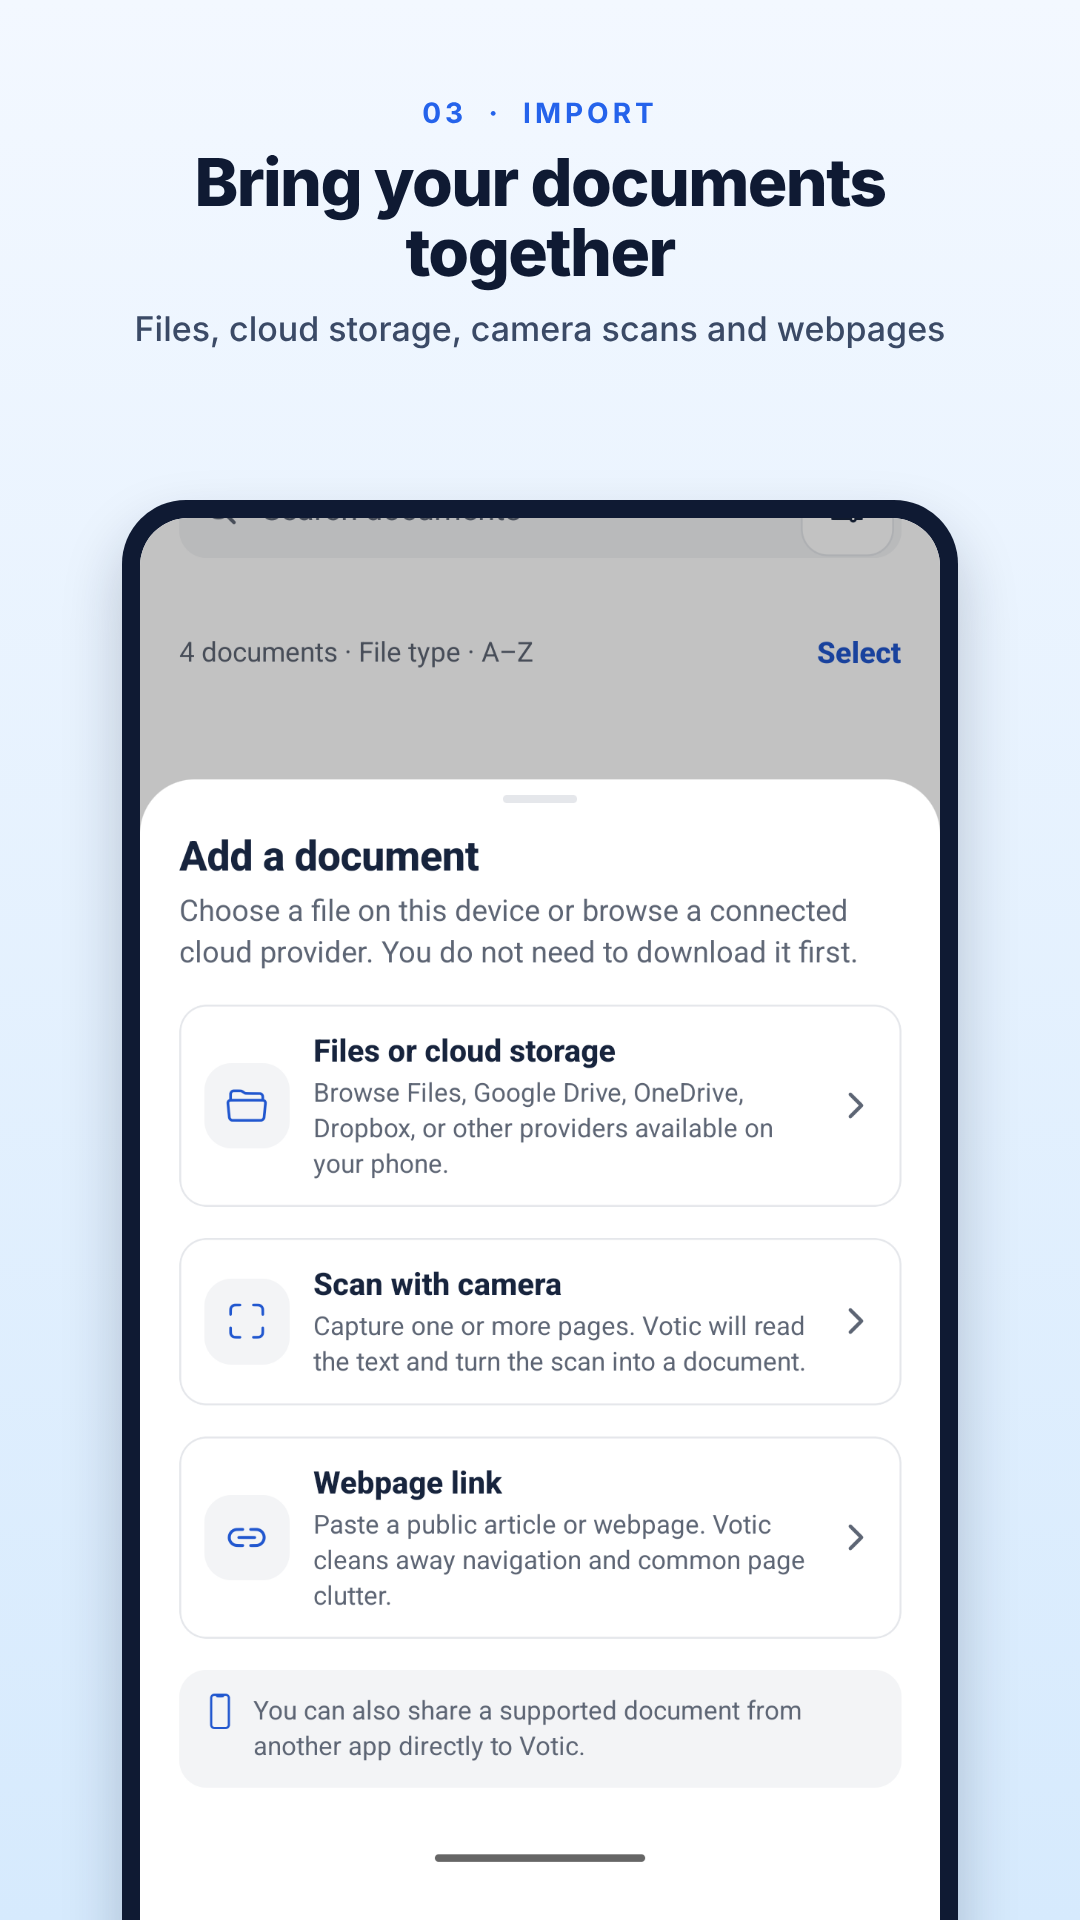
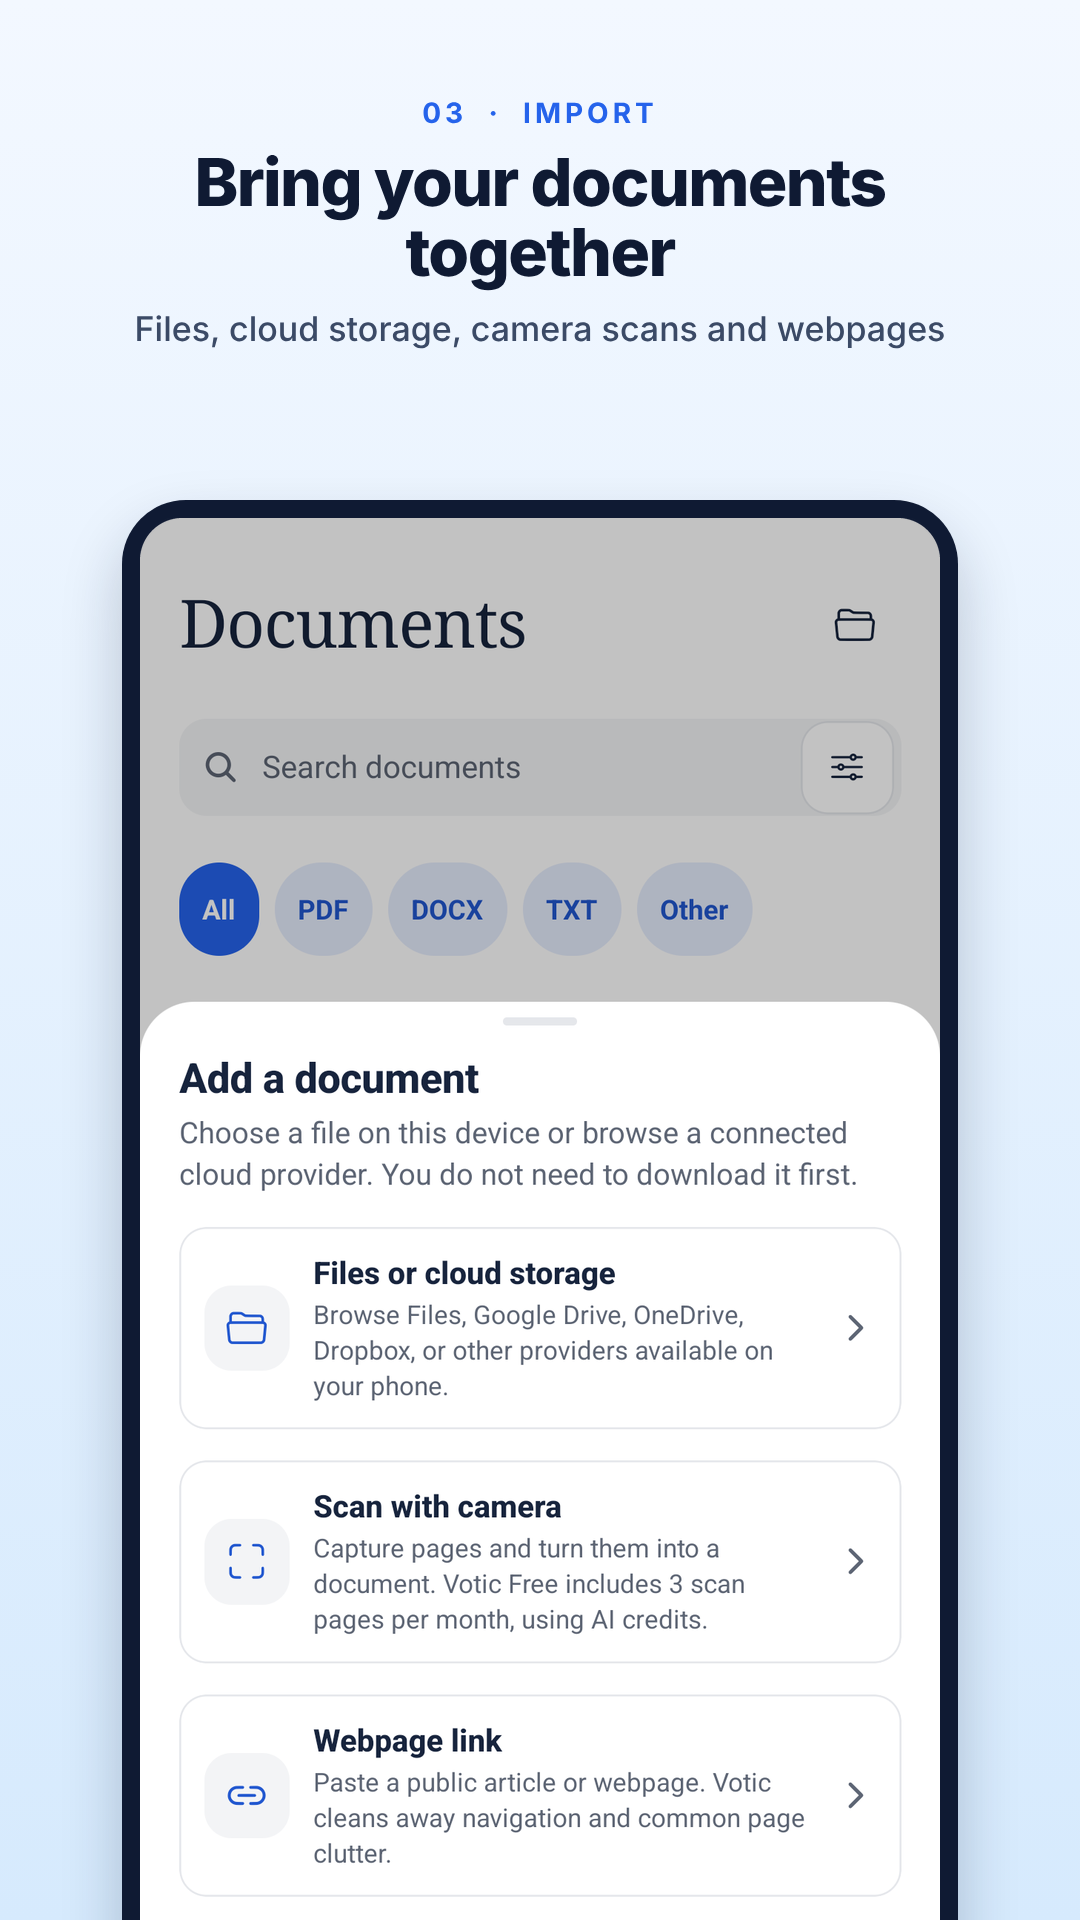
Welcome Create account flight, Home paper slide-in, new Documents store screenshot
- Create account with email plays the same V flight as Sign in and Continue
  with Google, then opens; a second tap during a flight is ignored.
- Home's Continue card shows a single sheet of paper that slides in from the
  left each time Home becomes active (120 px, 750 ms ease-out, after the tab
  change); not on rerenders or progress updates; at rest with Reduce Motion.
- Play Store screenshot 3 (Bring your documents together) recaptured from the
  current app: the updated Documents screen with the Add a document sheet open.
  Caption, background and phone frame are unchanged.

diff --git a/apps/mobile/tests/components/continuePapers.component.test.tsx b/apps/mobile/tests/components/continuePapers.component.test.tsx
@@ -1,0 +1,138 @@
+import { beforeEach, expect, it, jest } from "@jest/globals";
+import { act, screen } from "@testing-library/react-native";
+import { Context, useEffect, useState } from "react";
+import { AccessibilityInfo, Animated, StyleSheet } from "react-native";
+import { ContinuePreview } from "../../src/home/ContinuePreview";
+import { useAccessibilityPreferences } from "../../src/accessibility/AccessibilityProvider";
+import { MOTION } from "../../src/motion/motionSpec";
+import { VoticDocument } from "../../src/documents/types";
+import { render_with_providers, test_document } from "../renderWithProviders";
+
+// Home's focus, controllable: true while Home is the screen in front.
+jest.mock("expo-router", () => {
+  const original = jest.requireActual<object>("../mocks/expoRouter");
+  const React = jest.requireActual<typeof import("react")>("react");
+  const TestFocusContext = React.createContext(true);
+  return {
+    ...original,
+    TestFocusContext,
+    useFocusEffect(effect: () => void | (() => void)) {
+      const focused = React.useContext(TestFocusContext);
+      React.useEffect(() => (focused ? effect() : undefined), [effect, focused]);
+    },
+  };
+});
+const { TestFocusContext } = jest.requireMock<{ TestFocusContext: Context<boolean> }>("expo-router");
+
+let control: {
+  focus: (value: boolean) => void;
+  document: (value: VoticDocument) => void;
+  motion: (value: boolean) => void;
+};
+const story = test_document("doc-1", "The Gift of the Magi", {
+  plainText: "One dollar and eighty-seven cents. That was all. And sixty cents of it was in pennies.",
+  sentenceIndex: 0,
+  wordIndex: 0,
+});
+function Home() {
+  const [focused, setFocused] = useState(true);
+  const [document, setDocument] = useState(story);
+  const access = useAccessibilityPreferences();
+  useEffect(() => {
+    control = { focus: setFocused, document: setDocument, motion: access.setReduceMotion };
+  }, [access.setReduceMotion]);
+  return (
+    <TestFocusContext.Provider value={focused}>
+      <ContinuePreview document={document} />
+    </TestFocusContext.Provider>
+  );
+}
+
+const runs: { stop: ReturnType<typeof jest.fn> }[] = [];
+beforeEach(() => {
+  runs.length = 0;
+  const original = Animated.timing;
+  jest.spyOn(Animated, "timing").mockImplementation((value, config) => {
+    const animation = original(value, config);
+    if (config.duration !== MOTION.papers.duration) return animation;
+    const stop = jest.fn(() => animation.stop());
+    runs.push({ stop });
+    return { ...animation, stop };
+  });
+  jest.spyOn(AccessibilityInfo, "isReduceMotionEnabled").mockResolvedValue(false);
+});
+
+/** The paper's current horizontal offset from its usual place, and its opacity. */
+function paper() {
+  const style = StyleSheet.flatten(screen.getByTestId("home-preview-paper").props.style);
+  const read = (value: number | { __getValue: () => number } | undefined) =>
+    typeof value === "number" ? value : (value?.__getValue() ?? 0);
+  const shift = (style.transform as { translateX?: number | { __getValue: () => number } }[]).find(
+    (item) => item.translateX !== undefined,
+  )?.translateX;
+  return { x: read(shift), opacity: read(style.opacity as number | { __getValue: () => number }) };
+}
+
+it("slides one sheet of paper in from the left when Home appears, keeping the preview's text", async () => {
+  await render_with_providers(<Home />);
+  expect(runs).toHaveLength(1);
+  expect(screen.getByText(/One dollar and eighty-seven cents/)).toBeTruthy();
+  // Only the front, text-bearing sheet: no paper behind it.
+  expect(screen.queryByTestId("home-preview-back-sheet")).toBeNull();
+  // It starts to the left, out of view (not at rest), and the slide is long and eased.
+  expect(paper()).toEqual({ x: -MOTION.papers.travel, opacity: 0 });
+  // A long, unmistakable glide across the card rather than a quick flip.
+  expect(MOTION.papers.travel).toBeGreaterThanOrEqual(100);
+  expect(MOTION.papers.duration).toBeGreaterThanOrEqual(700);
+  expect(MOTION.papers.duration).toBeLessThanOrEqual(900);
+});
+
+it("replays on every return to Home, but not on rerenders or progress updates", async () => {
+  await render_with_providers(<Home />);
+  expect(runs).toHaveLength(1);
+  // Reading progress moves on and the screen rerenders: no replay.
+  await act(async () => control.document({ ...story, sentenceIndex: 1, wordIndex: 3 }));
+  await act(async () => control.document({ ...story, sentenceIndex: 2, wordIndex: 0 }));
+  expect(runs).toHaveLength(1);
+  // Away to another tab or screen, then back: it plays again, each time.
+  await act(async () => control.focus(false));
+  expect(runs[0].stop).toHaveBeenCalled();
+  await act(async () => control.focus(true));
+  expect(runs).toHaveLength(2);
+  await act(async () => control.focus(false));
+  await act(async () => control.focus(true));
+  expect(runs).toHaveLength(3);
+});
+
+it("stops the slide whenever Home is left, even with quick back-and-forth", async () => {
+  await render_with_providers(<Home />);
+  for (let i = 0; i < 4; i++) {
+    await act(async () => control.focus(false));
+    await act(async () => control.focus(true));
+  }
+  await act(async () => control.focus(false));
+  // Five arrivals, and every one was stopped when Home was left (the test renderer can't report native-driver
+  // positions, so where the paper comes to rest is checked on a device).
+  expect(runs).toHaveLength(5);
+  expect(runs.every((run) => run.stop.mock.calls.length > 0)).toBe(true);
+});
+
+it("shows the paper in place, without sliding, when Reduce Motion is on", async () => {
+  await render_with_providers(<Home />, { reduceMotion: true });
+  expect(runs).toHaveLength(0);
+  expect(paper()).toEqual({ x: 0, opacity: 1 });
+  await act(async () => control.focus(false));
+  await act(async () => control.focus(true));
+  expect(runs).toHaveLength(0);
+});
+
+it("stops at once when Reduce Motion is turned on mid-slide, and stays still after", async () => {
+  await render_with_providers(<Home />);
+  expect(runs).toHaveLength(1);
+  await act(async () => control.motion(true));
+  expect(runs[0].stop).toHaveBeenCalled();
+  // And with it on, coming back to Home doesn't animate.
+  await act(async () => control.focus(false));
+  await act(async () => control.focus(true));
+  expect(runs).toHaveLength(1);
+});

diff --git a/apps/mobile/src/home/ContinuePreview.tsx b/apps/mobile/src/home/ContinuePreview.tsx
@@ -1,6 +1,9 @@
 import { DEFAULT_ACCENT, make_theme } from "../theme/ThemeProvider";
-import { useMemo } from "react";
-import { StyleSheet, Text, View, useWindowDimensions } from "react-native";
+import { useCallback, useMemo, useState } from "react";
+import { Animated, Easing, StyleSheet, Text, View, useWindowDimensions } from "react-native";
+import { useFocusEffect } from "expo-router";
+import { useAccessibilityPreferences } from "../accessibility/AccessibilityProvider";
+import { MOTION } from "../motion/motionSpec";
 import { split_passages } from "../documents/passages";
 import { VoticDocument } from "../documents/types";
 import { darkCards } from "../design/cardPalette";
@@ -10,9 +13,50 @@ import { saved_excerpt } from "./savedExcerpt";
 // Preview paper stays light independently of the surrounding app or reader appearance.
 const paper = make_theme(DEFAULT_ACCENT, "light", true);
 
+/**
+ * The paper slides in from the left each time Home comes into view (from another tab or screen), fading in over the
+ * first part so it never jumps from its place to the start. Rerenders and progress updates don't replay it; leaving
+ * Home stops it with the paper at rest; with Less motion it's simply at rest. 0 = arriving, 1 = in place.
+ */
+function usePaperEntrance() {
+  const { reduceMotion, motionReady } = useAccessibilityPreferences();
+  // Starts out of place, so the first frame never shows the paper at rest before it slides in.
+  const [arrival] = useState(() => new Animated.Value(reduceMotion ? 1 : 0));
+  useFocusEffect(
+    useCallback(() => {
+      if (reduceMotion) {
+        arrival.setValue(1);
+        return;
+      }
+      // Until the motion preference is known, keep waiting out of view; this reruns once it is.
+      if (!motionReady) return;
+      arrival.setValue(0);
+      const animation = Animated.timing(arrival, {
+        toValue: 1,
+        duration: MOTION.papers.duration,
+        delay: MOTION.papers.delay,
+        easing: Easing.out(Easing.cubic),
+        useNativeDriver: true,
+        isInteraction: false,
+      });
+      // Stopped early (leaving Home, Less motion): rest the paper once the stop has reported where it was.
+      animation.start(({ finished }) => {
+        if (!finished) arrival.setValue(1);
+      });
+      return () => {
+        animation.stop();
+        arrival.setValue(1);
+      };
+    }, [arrival, reduceMotion, motionReady]),
+  );
+  return arrival;
+}
+
 /** Text already stored on device, using the same passage boundaries as Reader and speech. */
 export function ContinuePreview({ document }: { document: VoticDocument }) {
   const { width, fontScale } = useWindowDimensions();
+  const arrival = usePaperEntrance();
+  const { travel, fadeUntil } = MOTION.papers;
   const passages = useMemo(() => split_passages(document.plainText), [document.plainText]);
   const excerpt = useMemo(
     () => saved_excerpt(passages, document.sentenceIndex, document.wordIndex),
@@ -22,19 +66,28 @@ export function ContinuePreview({ document }: { document: VoticDocument }) {
     <View testID="home-position-preview" style={[s.preview, { width: width <= 350 ? 104 : 132 }]}>
       <Text style={s.label}>{excerpt ? "AT YOUR SAVED POSITION" : "DOCUMENT PREVIEW"}</Text>
       <View style={s.sheets}>
-        <View
-          accessible={false}
-          pointerEvents="none"
-          style={[s.backSheet, { backgroundColor: paper.surfaceMuted }]}
-        />
-        <View
+        <Animated.View
           testID="home-preview-paper"
-          style={[s.page, { backgroundColor: paper.background, borderColor: paper.border }]}
+          style={[
+            s.page,
+            {
+              backgroundColor: paper.background,
+              borderColor: paper.border,
+              opacity: arrival.interpolate({
+                inputRange: [0, fadeUntil],
+                outputRange: [0, 1],
+                extrapolate: "clamp",
+              }),
+              transform: [
+                { translateX: arrival.interpolate({ inputRange: [0, 1], outputRange: [-travel, 0] }) },
+              ],
+            },
+          ]}
         >
           <Text numberOfLines={fontScale > 1.3 ? 5 : 7} style={[s.excerpt, { color: paper.text }]}>
             {excerpt || "Open this document to pick up where you left off."}
           </Text>
-        </View>
+        </Animated.View>
       </View>
     </View>
   );
@@ -43,15 +96,6 @@ const s = StyleSheet.create({
   preview: { flexShrink: 0, gap: 8 },
   label: { color: darkCards.chapter.detail, fontSize: 11, fontWeight: "700", letterSpacing: 0.6 },
   sheets: { paddingRight: 4, paddingBottom: 5 },
-  backSheet: {
-    position: "absolute",
-    top: 6,
-    right: 0,
-    bottom: 0,
-    left: 5,
-    borderRadius: 3,
-    transform: [{ rotate: "3deg" }],
-  },
   page: {
     minHeight: 184,
     borderWidth: 1,

diff --git a/apps/mobile/tests/components/welcomeMotion.component.test.tsx b/apps/mobile/tests/components/welcomeMotion.component.test.tsx
@@ -10,14 +10,32 @@ import { router } from "../mocks/expoRouter";
 import { render_with_providers } from "../renderWithProviders";
 
 describe("Welcome motion", () => {
-  it("cancels delayed Sign in navigation when Create account is chosen", async () => {
+  it("plays the same V flight for Create account as for Sign in, then opens it once", async () => {
     fakeAuth.reset(null);
+    const moves = watch_moves();
+    await render_with_providers(<Welcome />);
+    await fireEvent.press(screen.getByRole("button", { name: "Create account with email" }));
+    // The V flies (three wings, the stroke, the glow) before Create account opens.
+    expect(moves.away()).toEqual([460, 460, 460, 520, 500]);
+    expect(router.push).not.toHaveBeenCalled();
+    // More taps during the flight change nothing.
+    await fireEvent.press(screen.getByRole("button", { name: "Create account with email" }));
+    await act(async () => jest.advanceTimersByTime(1500));
+    expect(router.push.mock.calls).toEqual([["/create-account"]]);
+    expect(moves.away()).toHaveLength(5);
+  });
+
+  it("sends the person where they tapped first: a second choice during the flight is ignored", async () => {
+    fakeAuth.reset(null);
+    const moves = watch_moves();
     await render_with_providers(<Welcome />);
     await fireEvent.press(screen.getByRole("button", { name: "Sign in" }));
     await fireEvent.press(screen.getByRole("button", { name: "Create account with email" }));
     await act(async () => jest.advanceTimersByTime(1500));
-    expect(router.push.mock.calls).toEqual([["/create-account"]]);
+    expect(router.push.mock.calls).toEqual([["/sign-in"]]);
+    expect(moves.away()).toHaveLength(5);
   });
+
   it("stands still, with a plain headline, until someone taps Sign in", async () => {
     fakeAuth.reset(null);
     await render_with_providers(<Welcome />);

diff --git a/apps/mobile/tests/components/onboarding.component.test.tsx b/apps/mobile/tests/components/onboarding.component.test.tsx
@@ -46,12 +46,15 @@ describe("Welcome", () => {
     await render_with_providers(<Welcome />);
     expect(screen.getByRole("header", { name: "Make room for\nwhat matters." })).toBeTruthy();
     expect(screen.getByText("A place to read, listen, and keep your ideas.")).toBeTruthy();
+    // Each opens its screen after the V flies away.
     await fireEvent.press(screen.getByRole("button", { name: "Create account with email" }));
-    expect(router.push).toHaveBeenCalledWith("/create-account");
-    await fireEvent.press(screen.getByRole("button", { name: "Sign in" }));
-    // The V flies away first, then Sign in opens.
     await act(async () => jest.advanceTimersByTime(1500));
-    expect(router.push).toHaveBeenCalledWith("/sign-in");
+    expect(router.push).toHaveBeenCalledWith("/create-account");
+    screen.unmount();
+    await render_with_providers(<Welcome />);
+    await fireEvent.press(screen.getByRole("button", { name: "Sign in" }));
+    await act(async () => jest.advanceTimersByTime(1500));
+    expect(router.push).toHaveBeenLastCalledWith("/sign-in");
   });
 
   it("links Terms and Privacy only when this build has their addresses", async () => {
@@ -633,6 +636,7 @@ it("stays quiet when the person closes Google's account picker, and email still 
   expect(screen.queryByTestId("google-sign-in-error")).toBeNull();
   expect(screen.queryByRole("alert")).toBeNull();
   await fireEvent.press(screen.getByRole("button", { name: "Create account with email" }));
+  await finish_flight();
   expect(router.push).toHaveBeenLastCalledWith("/create-account");
 });
 

diff --git a/apps/mobile/app/welcome.tsx b/apps/mobile/app/welcome.tsx
@@ -13,8 +13,8 @@ import { useVoticTheme } from "../src/theme/ThemeProvider";
 /**
  * The first screen. Apple and Google create the account or sign in; "Create account with email" creates a new
  * account; the full-width "Sign in" below it is for existing email accounts. The screen stands still until someone
- * taps Sign in or Continue with Google, when the V's wings fly off to the right one by one and its stroke flies up
- * and away; then Sign in opens, or Google's account picker.
+ * taps one of them, when the V's wings fly off to the right one by one and its stroke flies up and away; then Create
+ * account or Sign in opens, or Google's account picker. A tap while the V is flying does nothing.
  */
 export default function Welcome() {
   const { theme } = useVoticTheme();
@@ -54,10 +54,7 @@ export default function Welcome() {
             accessibilityLabel="Create account with email"
             disabled={socialBusy}
             accessibilityState={{ disabled: socialBusy }}
-            onPress={() => {
-              mark.cancel();
-              router.push("/create-account");
-            }}
+            onPress={() => mark.fly(() => router.push("/create-account"))}
             style={({ pressed }) => [s.email, { backgroundColor: theme.accent, opacity: pressed ? 0.88 : 1 }]}
           >
             <Ionicons name="mail-outline" size={20} color={theme.onAccent} />

diff --git a/apps/mobile/src/onboarding/WelcomeMotion.tsx b/apps/mobile/src/onboarding/WelcomeMotion.tsx
@@ -214,10 +214,10 @@ function useWingBrightnessPulse(active: boolean) {
 }
 
 /**
- * The welcome transition: when someone taps Sign in or Continue with Google, the top wing flies off to the right,
- * then the middle wing, then the bottom one, and the left stroke flies up and away. Then Sign in (or Google's
- * account picker) opens. With Less motion nothing moves and it opens straight away. Coming back to the screen, or a
- * Google sign-in that's closed or fails, puts the V together again.
+ * The welcome transition: when someone taps Create account, Sign in or Continue with Google, the top wing flies off to
+ * the right, then the middle wing, then the bottom one, and the left stroke flies up and away. Then that screen (or
+ * Google's account picker) opens. With Less motion nothing moves and it opens straight away. Coming back to the
+ * screen, or a Google sign-in that's closed or fails, puts the V together again.
  */
 export function useMarkFlight() {
   const { reduceMotion } = useAccessibilityPreferences();

diff --git a/apps/mobile/src/motion/motionSpec.ts b/apps/mobile/src/motion/motionSpec.ts
@@ -8,6 +8,9 @@ export const MOTION = {
   saved: { duration: 340, hold: 2600 },
   finish: { ring: 520, short: 140, long: 180, totals: 240, actions: 220 },
   feedback: { duration: 280 },
+  // Home's Continue paper slides in from the left (fading in over the first part, so a restart never jumps). It
+  // waits out the tab change (150 ms) so the whole slide is seen on a settled page.
+  papers: { duration: 750, travel: 120, fadeUntil: 0.12, delay: 150 },
 } as const;
 
 /** Two rectangles per scanline form one triangle, then separate into the two pause bars. */
